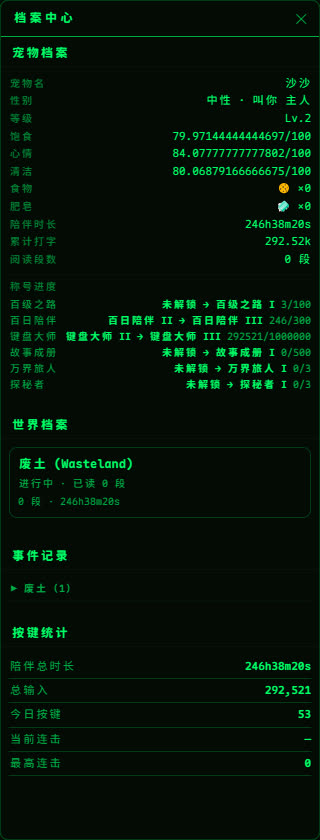
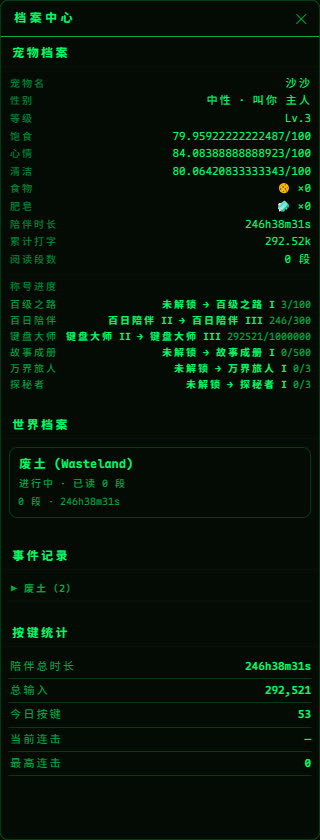
Task8h: 修复——pet.js EXP条读旧字段total_exp_earned→exp(单轨化后负数百分比bug)/等级显示单轨(删hubLevel分支,大厅世界同petTotalExp)/档案中心三维数值Math.round格式化/readme截图改静帧(pet-window.jpg替换gif,主界面用图即可)/截图模式场景1改静帧

diff --git a/src/main.js b/src/main.js
@@ -818,9 +818,9 @@ async function renderArchivePet() {
     kvRow(t('archName'), gameState.player_name || '—'),
     kvRow(t('archGender'), `${g} · ${tf('petCall', gameState.pet_call_name || '主人')}`),
     kvRow(t('archLevel'), 'Lv.' + (gameState.pet_level || 1)),
-    kvRow(t('archFullness'), (gameState.pet_fullness ?? 80) + '/100', (gameState.pet_fullness ?? 80) < 30 ? 'warn' : ''),
-    kvRow(t('archMood'), (gameState.pet_mood ?? 80) + '/100', (gameState.pet_mood ?? 80) < 30 ? 'warn' : ''),
-    kvRow(t('archClean'), (gameState.pet_cleanliness ?? 80) + '/100', (gameState.pet_cleanliness ?? 80) < 30 ? 'warn' : ''),
+    kvRow(t('archFullness'), Math.round(gameState.pet_fullness ?? 80) + '/100', (gameState.pet_fullness ?? 80) < 30 ? 'warn' : ''),
+    kvRow(t('archMood'), Math.round(gameState.pet_mood ?? 80) + '/100', (gameState.pet_mood ?? 80) < 30 ? 'warn' : ''),
+    kvRow(t('archClean'), Math.round(gameState.pet_cleanliness ?? 80) + '/100', (gameState.pet_cleanliness ?? 80) < 30 ? 'warn' : ''),
     kvRow(t('archFoods'), '🍪 ×' + (gameState.pet_foods || 0)),
     kvRow(t('archSoaps'), '🧼 ×' + (gameState.pet_soaps || 0)),
     kvRow(t('archTime'), rt),

diff --git a/pet/pet.js b/pet/pet.js
@@ -352,7 +352,7 @@ function updateInfoBar(){
   if(!spritesheet&&pets.length===0){drawNoPetHint();return;}
   if(!spritesheet)return;
   const title=gameInfo.title&&gameInfo.title!=='—'?gameInfo.title:'';
-  const dl=gameInfo.isInHub?(gameInfo.hubLevel||1):(gameInfo.level||1);
+  const dl=gameInfo.level||1;   // v4 单轨：唯一等级（大厅/世界同一 petTotalExp）
   infoText.textContent=title?`${gameInfo.scenario} | LV.${dl} | ${title}`:`${gameInfo.scenario} | LV.${dl}`;
   updateExpBar();
 }
@@ -424,8 +424,7 @@ window.pet.on('toggle-feature', d => {
   applyPetSettings();
 });
 window.pet.on('game-tick',d=>{
-  gameInfo.level=d.level||1;gameInfo.exp=d.total_exp_earned||0;
-  gameInfo.hubLevel=d.hub_level||1;
+  gameInfo.level=d.level||1;gameInfo.exp=d.exp||0;   // v4：exp = petTotalExp（单轨化后唯一经验池）
   gameInfo.isInHub=d.is_in_hub!==false;
   if(d.currentTitle)gameInfo.title=d.currentTitle;
   gameInfo.scenario=d.is_in_hub?'家':(d.scenario_name||'世界');

diff --git a/README.md b/README.md
@@ -51,7 +51,7 @@ Idel-DreamMaker 是一个藏在系统托盘里的**宠物陪伴挂机游戏**。
 
 | 宠物窗口（悬停显示状态条） | 世界选择 | 档案中心 |
 |---------|-----------|---------|
-| ![宠物窗口](docs/screenshots/pet-window.gif) | ![世界选择](docs/screenshots/hub.jpg) | ![档案中心](docs/screenshots/archive.jpg) |
+| ![宠物窗口](docs/screenshots/pet-window.jpg) | ![世界选择](docs/screenshots/hub.jpg) | ![档案中心](docs/screenshots/archive.jpg) |
 
 | 打字连击 | 存档同步 |
 |---------|---------|
